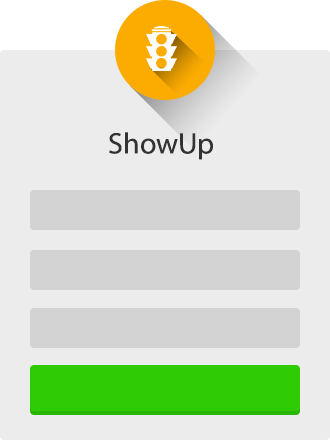
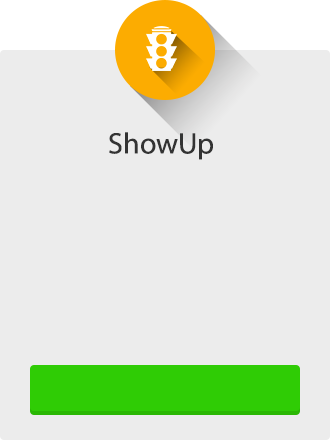
started styling

Changed region(s): [[0.0909, 0.5614, 0.9091, 0.7977], [0.0909, 0.4136, 0.9091, 0.5318]]

diff --git a/app/styles/main.scss b/app/styles/main.scss
@@ -11,21 +11,62 @@ body {
   color: #333;
 }
 
-.link { color: white; font-weight: bold; list-style: none; background: black; width: 200px; overflow-x: wrap;}
-.main_nav ul { display: inline-flex; }
-.main_nav li { padding: 0 50px 10px 0; margin-bottom: 10px;}
+.link {
+  color: gray;
+  list-style: none;
+  margin-top:5px;
+  width: 200px;
+  overflow-x: wrap;
+  }
+.main_nav ul {
+  display: inline-flex;
+ }
+.main_nav li {
+  padding: 0 50px 10px 0;
+  margin-bottom: 10px;
+  }
 
 .concert_content{
   float:left;
 }s
 
-.form1, .form2, .log_in_form{ padding-top: 140px;}
+.form1, .form2, .log_in_form{
+  padding-top: 140px;
+  }
 
-.form1, .form2, .concert_form, .log_in_form { margin: auto; max-width: 500px; }
-.main_nav, .form1, .form2, .concert_form, .concert_content, .log_in_form , .user_concert_content{ display: none;}
-.main_nav ul { width: 100%; padding-top: 10px; background-color: black; }
-.main_nav li { color: white; font-weight: bold; }
+.form1, .form2, .concert_form, .log_in_form {
+  margin: auto; max-width: 500px;
+  }
+.main_nav, .form1, .form2, .concert_form, .concert_content, .log_in_form , .user_concert_content{
+   display: none;}
+.main_nav ul { width: 100%;
+  padding-top: 10px; background-color: black; }
+.main_nav li { color: gray; font-weight: bold; }
+.form1{
+margin-top: 48px;
+width: 331px;
+height: 440px;
+background-image:url("../images/signup_form.png");
+position:relative;
+padding-top: 191px;
+padding-left: 32px;
+}
+.form1 input{
+  width:266px;
+  margin-left:30px;
+  margin:0;
+  color:black;
+background-color:#d3d3d3;
 
+}
+.form1 input[type="submit"] {
+  background-color:#2fcc05;
+  color:white;
+}
+
+.signup{
+
+}
 .card {
   $card-border-color: $base-border-color;
   $card-border: 1px solid $card-border-color;

diff --git a/app/index.html b/app/index.html
@@ -37,12 +37,13 @@
           </div>
 
           <form class="form1" action="">
-            <!-- <p>Signup</p> -->
+            <div class="signup_wrapper">
             <input name="name" id="signUpName" class="signup" type="text" placeholder="Name"/></br>
             <input name="password" id="signUpPassword" class="signup" type="text" placeholder="Password"/></br>
             <input name="email" id="signUpEmail" class="signup" type="text" placeholder="Email"/></br>
             <input type="submit" class='signUpUser' value="Sign Up"/>
             <li class="login_link link">Already Signed Up?</li>
+            </div
           </form>
 
           <form class="log_in_form" action="">
